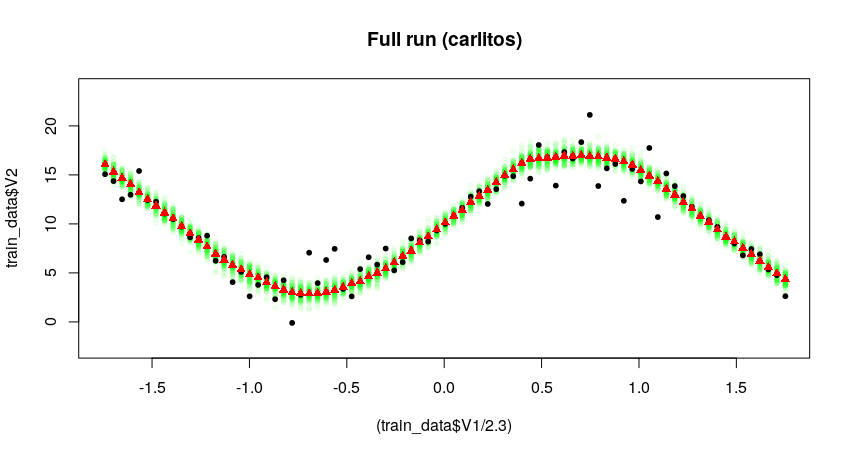
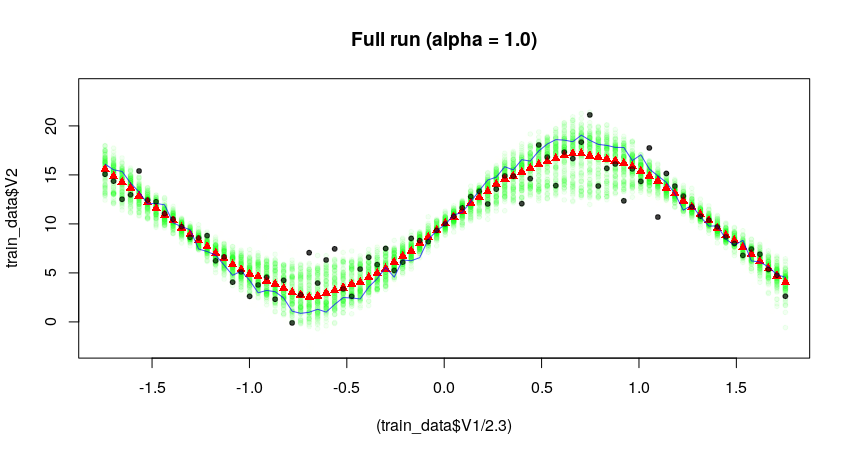
update figure

Changed region(s): [[0.1224, 0.2456, 0.9482, 0.7368], [0.3976, 0.0614, 0.6424, 0.1228]]

diff --git a/README.md b/README.md
@@ -23,7 +23,7 @@ The rest of the codes included here, and additional folders that may appear are 
 
 This shows that the method is not learning properly. On black we have the real data, on red the estimates of the method, whose means are represented as green crosses (for each x_test given). 
 
-#### Results sampling the weights instead of the activations (100 epochs, alpha = 0.5)
+#### Results sampling the weights instead of the activations (100 epochs, alpha = 1.0)
 <img src="synthetic_cases/full_run_carlitos.png" alt="Final results estimated in the input test values for the noiseless synthetic problem" width="650"/>
 
 #### Results sampling the activations (epoch = 27, Cholesky decomposition falls apart afterwards)
